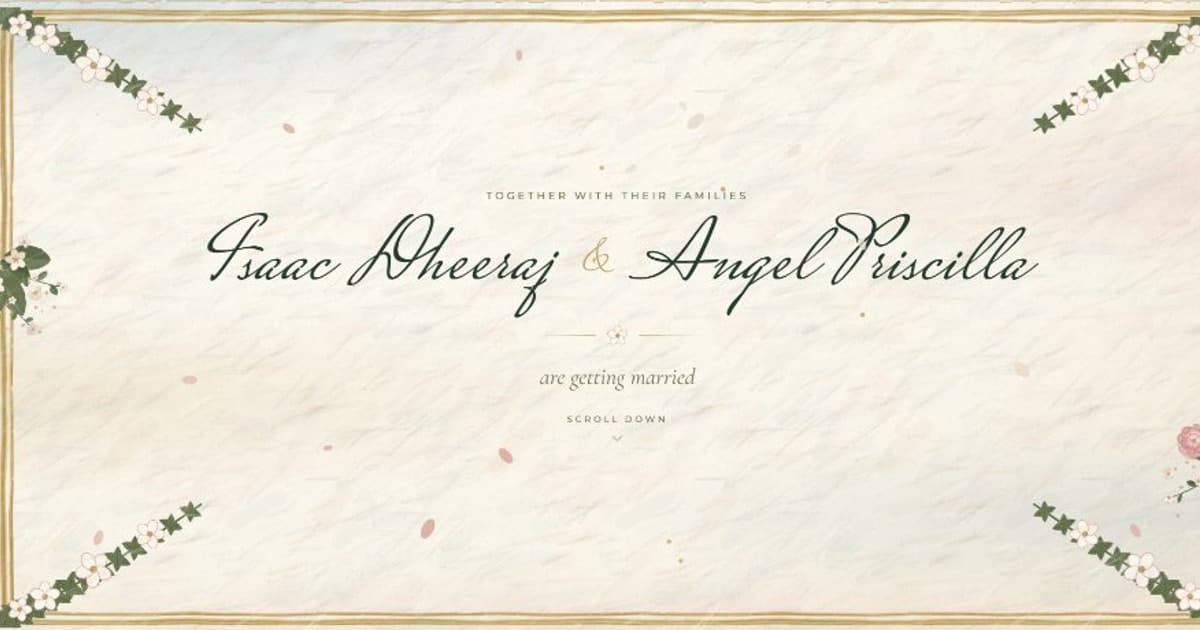
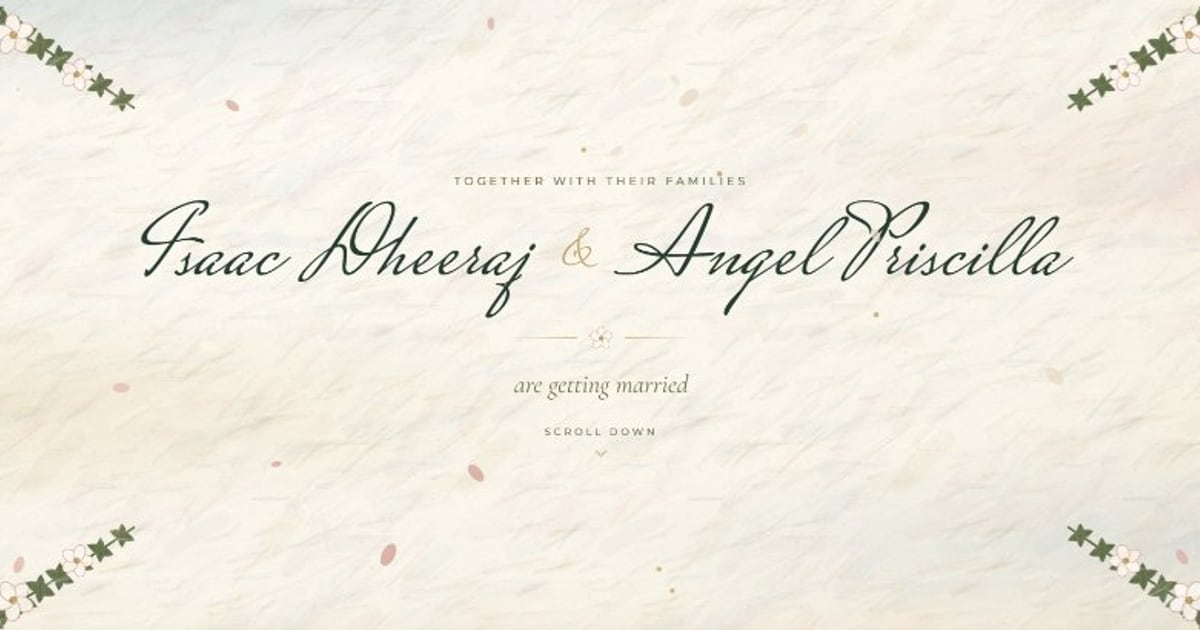
feat: increase text and name size on share card and point og:image to wedding-card-v2.jpg

diff --git a/index.html b/index.html
@@ -12,8 +12,8 @@
   <meta property="og:title" content="Isaac Dheeraj &amp; Angel Priscilla are getting married">
   <meta property="og:description" content="28 December 2026 · All Saints Church, Secunderabad">
   <meta property="og:url" content="https://dheeraj-and-angel.vercel.app/">
-  <meta property="og:image" content="https://dheeraj-and-angel.vercel.app/wedding-card.jpg">
-  <meta property="og:image:secure_url" content="https://dheeraj-and-angel.vercel.app/wedding-card.jpg">
+  <meta property="og:image" content="https://dheeraj-and-angel.vercel.app/wedding-card-v2.jpg">
+  <meta property="og:image:secure_url" content="https://dheeraj-and-angel.vercel.app/wedding-card-v2.jpg">
   <meta property="og:image:type" content="image/jpeg">
   <meta property="og:image:width" content="1200">
   <meta property="og:image:height" content="630">
@@ -22,7 +22,7 @@
   <meta name="twitter:card" content="summary_large_image">
   <meta name="twitter:title" content="Isaac Dheeraj &amp; Angel Priscilla are getting married">
   <meta name="twitter:description" content="28 December 2026 · All Saints Church, Secunderabad">
-  <meta name="twitter:image" content="https://dheeraj-and-angel.vercel.app/wedding-card.jpg">
+  <meta name="twitter:image" content="https://dheeraj-and-angel.vercel.app/wedding-card-v2.jpg">
 
   <!-- ===== FAVICON ===== -->
   <link rel="icon" href="/favicon.ico" sizes="48x48">
